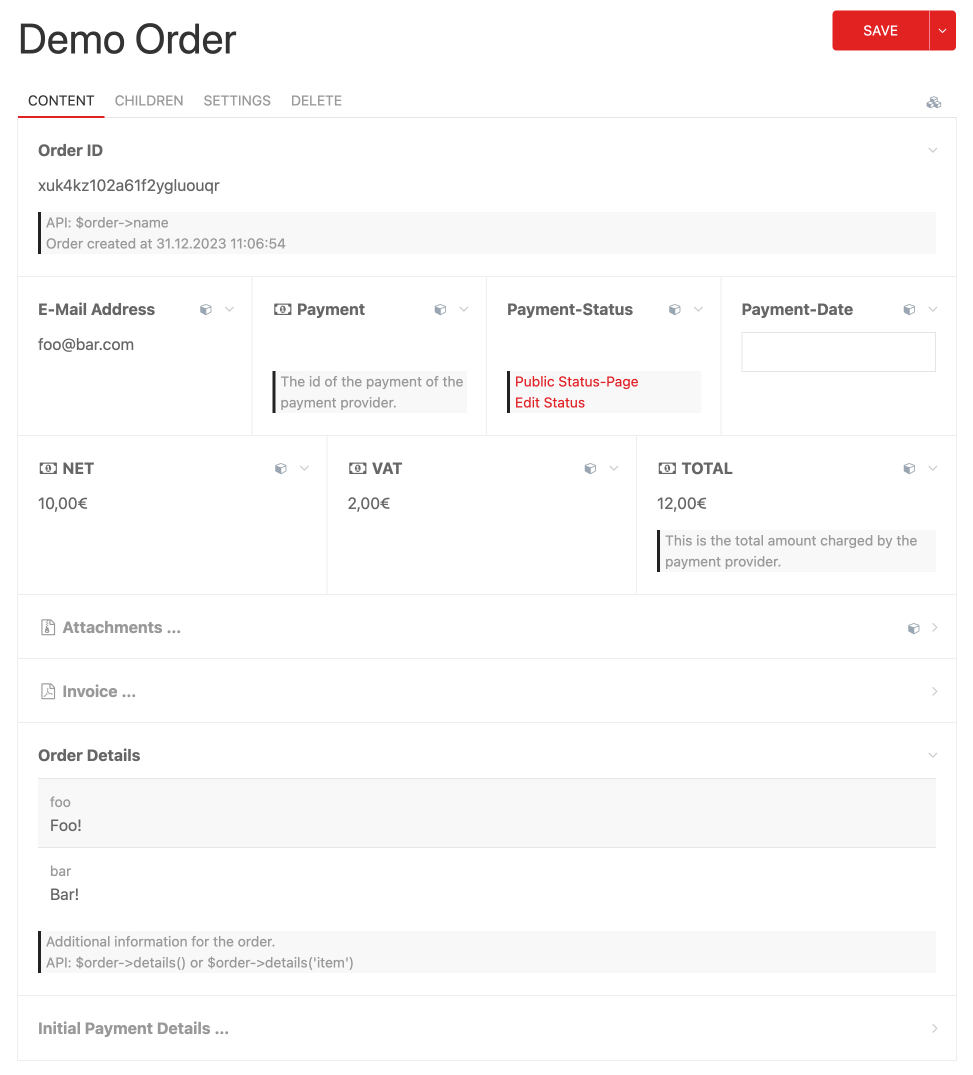
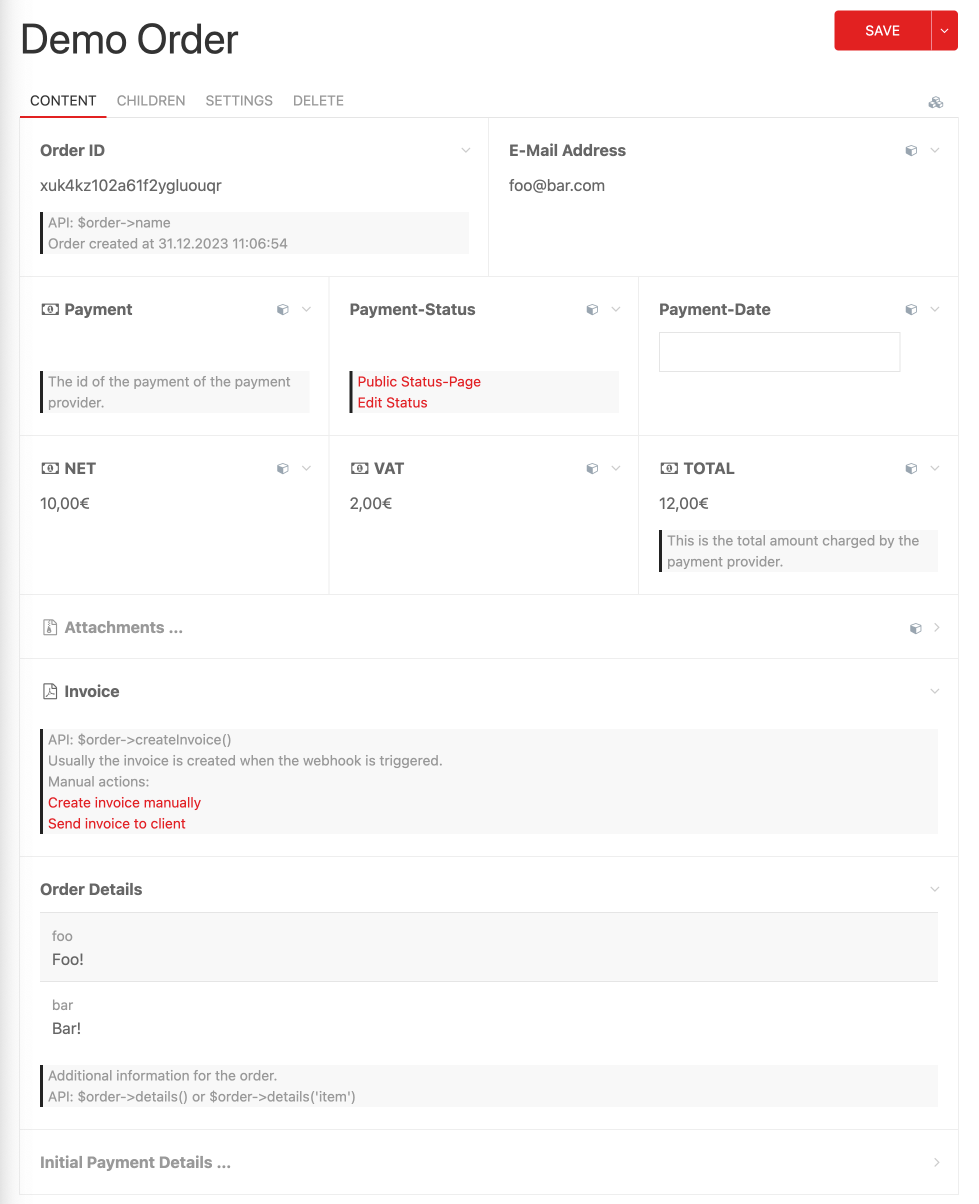
change order of fields

diff --git a/classes/Order.php b/classes/Order.php
@@ -69,7 +69,7 @@ class Order extends Page
       'type' => 'markup',
       'label' => 'Order ID',
       'value' => "<div class='uk-text-truncate'>{$this->name}</div>",
-      'columnWidth' => 100,
+      'columnWidth' => 50,
       'notes' => "API: \$order->name\n" .
         'Order created at ' . date("d.m.Y H:i:s", $this->created),
     ]));
@@ -371,22 +371,21 @@ class Order extends Page
             'title' => [
               'required' => false,
               'collapsed' => Inputfield::collapsedHidden,
-              'columnWidth' => 100,
+              'columnWidth' => 50,
             ],
-
             RockMigrations::field_email => [
               'collapsed' => Inputfield::collapsedNoLocked,
-              'columnWidth' => 25,
+              'columnWidth' => 50,
             ],
 
             self::field_payment => [
-              'columnWidth' => 25,
+              'columnWidth' => 33,
             ],
             self::field_paymentstatus => [
-              'columnWidth' => 25,
+              'columnWidth' => 33,
             ],
             self::field_paymentdate => [
-              'columnWidth' => 25,
+              'columnWidth' => 33,
             ],
 
             self::field_net => [
